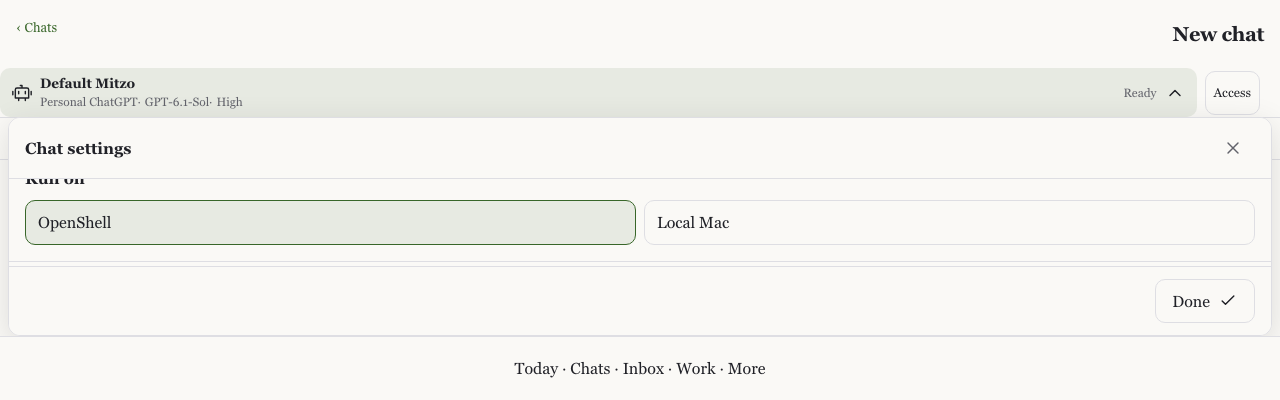
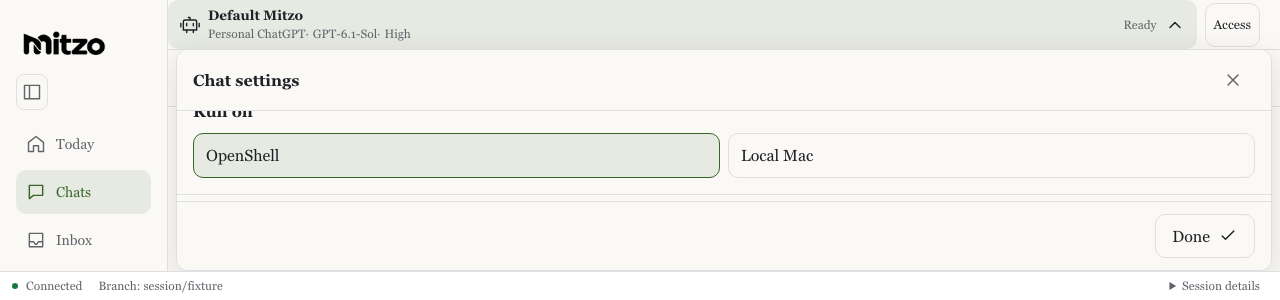
fix(chat): bound settings by the desktop shell clipping edge

diff --git a/tests/fixtures/chat-settings-surface.tsx b/tests/fixtures/chat-settings-surface.tsx
@@ -4,8 +4,12 @@ import { createRoot } from 'react-dom/client';
 import { WorkspaceControls } from '../../frontend/src/components/WorkspaceControls';
 import { AgentSettingsFields } from '../../frontend/src/components/AgentSettingsPicker';
 import { HomeDialog } from '../../frontend/src/components/HomeDialog';
+import { DesktopShell } from '../../frontend/src/components/DesktopShell';
+import { StatusBar } from '../../frontend/src/components/StatusBar';
+import { MemoryRouter } from 'react-router-dom';
 import '../../frontend/src/styles/tokens.css';
 import '../../frontend/src/styles/global.css';
+import '../../frontend/src/styles/desktop.css';
 import '../../frontend/src/styles/workspace.css';
 import '../../frontend/src/styles/workspace-chat.css';
 
@@ -23,91 +27,116 @@ function Surface() {
   const [keyboardOpen, setKeyboardOpen] = useState(false);
   const [sends, setSends] = useState(0);
   const [reviewOpen, setReviewOpen] = useState(false);
+  const desktop = window.matchMedia('(min-width: 768px)').matches;
   useEffect(() => onKeyboardToggle(setKeyboardOpen), []);
-  return (
-    <>
-      <div className={`chat-page workspace-chat${keyboardOpen ? ' keyboard-open' : ''}`}>
+  const center = (
+    <div
+      className={
+        desktop
+          ? 'desktop-chat-center workspace-chat'
+          : `chat-page workspace-chat${keyboardOpen ? ' keyboard-open' : ''}`
+      }
+    >
+      {!desktop && (
         <div className="conversation-heading">
           <a href="#chats">‹ Chats</a>
           <h1>New chat</h1>
         </div>
-        <WorkspaceControls
-          agent="Default Mitzo"
-          status="Ready"
-          summary={{ profile: 'Personal ChatGPT', model: 'GPT-6.1-Sol', thinking: 'High' }}
-          actions={
-            <button type="button" className="home-secondary">
-              Access
-            </button>
-          }
-          settings={
-            <AgentSettingsFields
-              agent={field('Agent', ['Default Mitzo', 'Repository helper'])}
-              accountModel={
-                <>
-                  {field('Account', ['Personal ChatGPT', 'Work'])}
-                  {field('Model', ['GPT-6.1-Sol', 'Luna'])}
-                  {field('Thinking level', ['High', 'Medium', 'Low'])}
-                </>
-              }
-              execution={
-                <div className="agent-execution-settings">
-                  <strong>Run on</strong>
-                  <div className="agent-execution-cards">
-                    <button type="button" className="agent-execution-card" aria-pressed="true">
-                      OpenShell
-                    </button>
-                    <button type="button" className="agent-execution-card" aria-pressed="false">
-                      Local Mac
-                    </button>
-                  </div>
+      )}
+      <WorkspaceControls
+        agent="Default Mitzo"
+        status="Ready"
+        summary={{ profile: 'Personal ChatGPT', model: 'GPT-6.1-Sol', thinking: 'High' }}
+        actions={
+          <button type="button" className="home-secondary">
+            Access
+          </button>
+        }
+        settings={
+          <AgentSettingsFields
+            agent={field('Agent', ['Default Mitzo', 'Repository helper'])}
+            accountModel={
+              <>
+                {field('Account', ['Personal ChatGPT', 'Work'])}
+                {field('Model', ['GPT-6.1-Sol', 'Luna'])}
+                {field('Thinking level', ['High', 'Medium', 'Low'])}
+              </>
+            }
+            execution={
+              <div className="agent-execution-settings">
+                <strong>Run on</strong>
+                <div className="agent-execution-cards">
+                  <button type="button" className="agent-execution-card" aria-pressed="true">
+                    OpenShell
+                  </button>
+                  <button type="button" className="agent-execution-card" aria-pressed="false">
+                    Local Mac
+                  </button>
                 </div>
-              }
-            />
-          }
-        >
-          <div className="workspace-session-actions">
-            <button type="button">Collaborate</button>
-            <button type="button" onClick={() => setReviewOpen(true)}>
-              Review findings
-            </button>
-          </div>
-        </WorkspaceControls>
-        <main className="chat-messages">
-          <h2>What are we working on?</h2>
-        </main>
-        <div className="conversation-composer">
-          <div className="chat-input chat-input--compact">
-            <div className="chat-input-row">
-              <textarea
-                className="chat-input-field"
-                aria-label="Message Mitzo"
-                placeholder="Message Mitzo…"
-              />
-              <div className="composer-toolbar">
-                <button type="button" aria-label="Add attachment">
-                  +
-                </button>
-                <button type="button" onClick={() => setSends((count) => count + 1)}>
-                  Start session
-                </button>
-                <output data-testid="sent-count" hidden>
-                  {sends}
-                </output>
               </div>
+            }
+          />
+        }
+      >
+        <div className="workspace-session-actions">
+          <button type="button">Collaborate</button>
+          <button type="button" onClick={() => setReviewOpen(true)}>
+            Review findings
+          </button>
+        </div>
+      </WorkspaceControls>
+      <main className="chat-messages">
+        <h2>What are we working on?</h2>
+      </main>
+      <div className="conversation-composer">
+        <div className="chat-input chat-input--compact">
+          <div className="chat-input-row">
+            <textarea
+              className="chat-input-field"
+              aria-label="Message Mitzo"
+              placeholder="Message Mitzo…"
+            />
+            <div className="composer-toolbar">
+              <button type="button" aria-label="Add attachment">
+                +
+              </button>
+              <button type="button" onClick={() => setSends((count) => count + 1)}>
+                Start session
+              </button>
+              <output data-testid="sent-count" hidden>
+                {sends}
+              </output>
             </div>
           </div>
         </div>
       </div>
+    </div>
+  );
+  return (
+    <>
+      {desktop ? (
+        <DesktopShell
+          center={center}
+          statusBar={<StatusBar connected sessionId="fixture-session" branch="session/fixture" />}
+        />
+      ) : (
+        center
+      )}
       {reviewOpen && (
         <HomeDialog title="Review findings" onClose={() => setReviewOpen(false)}>
           Review details
         </HomeDialog>
       )}
-      <nav className="workspace-tabs" aria-label="Main navigation">
-        Today · Chats · Inbox · Work · More
-      </nav>
+      {!desktop && (
+        <nav className="workspace-tabs" aria-label="Main navigation">
+          Today · Chats · Inbox · Work · More
+        </nav>
+      )}
     </>
   );
 }
-createRoot(document.getElementById('root')!).render(<Surface />);
+createRoot(document.getElementById('root')!).render(
+  <MemoryRouter initialEntries={['/chat']}>
+    <Surface />
+  </MemoryRouter>,
+);

diff --git a/tests/offline/chat-settings-surface.spec.ts b/tests/offline/chat-settings-surface.spec.ts
@@ -1,8 +1,9 @@
 import { expect, test } from '@playwright/test';
 import { build } from 'esbuild';
 import { resolve } from 'node:path';
+import { readFile } from 'node:fs/promises';
 
-// Bundle only the real changed controls. No backend, provider, full app build or model.
+// Bundle the changed controls with the real desktop shell. No backend, provider or model.
 const output = build({
   entryPoints: [resolve('tests/fixtures/chat-settings-surface.tsx')],
   bundle: true,
@@ -10,7 +11,11 @@ const output = build({
   outfile: '/tmp/mitzo-chat-settings.js',
   jsx: 'automatic',
   minify: true,
-  define: { 'process.env.NODE_ENV': '"production"' },
+  define: { 'process.env.NODE_ENV': '"production"', 'import.meta.env': '{}' },
+  alias: {
+    '@mitzo/client': resolve('packages/client/src/index.ts'),
+    '@mitzo/protocol': resolve('packages/protocol/src/index.ts'),
+  },
 });
 for (const appearance of ['dark', 'light'] as const) {
   test(`single top chat settings: outside dismissal and compact composer (${appearance})`, async ({
@@ -28,6 +33,10 @@ for (const appearance of ['dark', 'light'] as const) {
           body: file.text,
           contentType: file.path.endsWith('.css') ? 'text/css' : 'text/javascript',
         });
+      if (path === '/mitzo-wordmark.png' || path === '/mitzo-icon.png')
+        return readFile(resolve('frontend/public', path.slice(1))).then((body) =>
+          route.fulfill({ body, contentType: 'image/png' }),
+        );
       if (path !== '/') return route.abort();
       return route.fulfill({
         contentType: 'text/html',
@@ -103,7 +112,7 @@ for (const appearance of ['dark', 'light'] as const) {
       });
       await expect(page.getByRole('navigation')).toBeVisible();
     }
-    await page.setViewportSize({ width: mobile ? 320 : 1280, height: mobile ? 500 : 400 });
+    await page.setViewportSize({ width: mobile ? 320 : 1280, height: mobile ? 500 : 300 });
     await input.evaluate((element) => {
       element.style.height = '210px';
     });
@@ -121,8 +130,13 @@ for (const appearance of ['dark', 'light'] as const) {
     await expect(panel.getByRole('button', { name: 'Close agent settings' })).toBeInViewport();
     await expect(panel.getByText('Chat settings', { exact: true })).toBeInViewport();
     expect(footerBox.y + footerBox.height).toBeLessThanOrEqual(page.viewportSize()!.height);
+    if (!mobile) {
+      const center = (await page.locator('.desktop-center').boundingBox())!;
+      expect(footerBox.y + footerBox.height).toBeLessThanOrEqual(center.y + center.height);
+      await expect(page.locator('.desktop-status-row')).toBeInViewport();
+    }
     await page.screenshot({ path: testInfo.outputPath(`short-chat-settings-${appearance}.png`) });
-    await panel.getByRole('button', { name: 'Close agent settings' }).click();
+    await panel.getByRole('button', { name: 'Done', exact: true }).click();
     await expect(panel).toBeHidden();
     await expect(input).toHaveValue('Keep my draft');
     await expect(input).toBeInViewport();

diff --git a/frontend/src/components/WorkspaceControls.tsx b/frontend/src/components/WorkspaceControls.tsx
@@ -117,7 +117,13 @@ export function WorkspaceControls({
       const viewport = window.visualViewport;
       const viewportBottom = viewport ? viewport.offsetTop + viewport.height : window.innerHeight;
       const navigation = document.querySelector('.workspace-tabs')?.getBoundingClientRect();
-      const bottom = navigation?.height ? Math.min(viewportBottom, navigation.top) : viewportBottom;
+      const center = chat.closest('.desktop-center')?.getBoundingClientRect();
+      const bottom = Math.min(
+        viewportBottom,
+        chat.getBoundingClientRect().bottom,
+        center?.bottom ?? viewportBottom,
+        navigation?.height ? navigation.top : viewportBottom,
+      );
       panel.style.setProperty(
         '--workspace-disclosure-viewport-space',
         `${Math.max(0, bottom - (heading ?? owner).getBoundingClientRect().bottom)}px`,

diff --git a/server/connections/reviewed-handler-artifacts.ts b/server/connections/reviewed-handler-artifacts.ts
@@ -78,7 +78,7 @@ export const reviewedHandlerSourceArtifacts = Object.freeze({
   '../../frontend/src/components/SessionTray.tsx':
[1 lines of base64/hex data omitted]
   '../../frontend/src/components/WorkspaceControls.tsx':
[2 lines of base64/hex data omitted]
   '../../frontend/src/hooks/ChatRuntimeDraftProvider.tsx':
[1 lines of base64/hex data omitted]
   '../../frontend/src/hooks/chat-runtime-draft-context.ts':

diff --git a/docs/design/ui-design-system.md b/docs/design/ui-design-system.md
@@ -312,7 +312,8 @@ On phones the Workspace summary truncates long text while its accessible name ke
 the full account/model details. The expanded settings panel measures the space before launch actions or the composer and
 scrolls within that space. When desktop flow cannot fit the fixed header, Done action
 and a settings row, it switches to the same bounded overlay used on phones. The
-overlay may overlap part of a tall composer and remains above visible navigation.
+overlay may overlap part of a tall composer and remains above visible navigation
+and the chat/desktop center's clipping boundary, including its separate status row.
 Closing it restores access to the retained draft.
 The settings body owns scrolling between those actions. A 60dvh cap is
 the fallback before measurement, bounded by the viewport. These bounds are structural overlay geometry;
@@ -519,7 +520,8 @@ not establish acceptance of unrelated routes or native keyboard behavior.
 Component captures show the [clear mobile composer](assets/chat-settings-mobile-dark.png)
 and [desktop settings disclosure](assets/chat-settings-desktop-light.png). The
 [short mobile capture](assets/chat-settings-short-mobile-dark.png) verifies reachable
-settings and fixed actions over a tall draft. The same fallback is checked in a
-[short desktop window](assets/chat-settings-short-desktop-light.png). Existing mobile
+settings and fixed actions over a tall draft. The same fallback is checked inside
+the real DesktopShell at 300px height, with its separate status row, in the
+[short desktop capture](assets/chat-settings-short-desktop-light.png). Existing mobile
 conversations retain their full account/agent/model/thinking/execution/workspace
 details in this top panel, including legacy conversations without a runtime binding.
